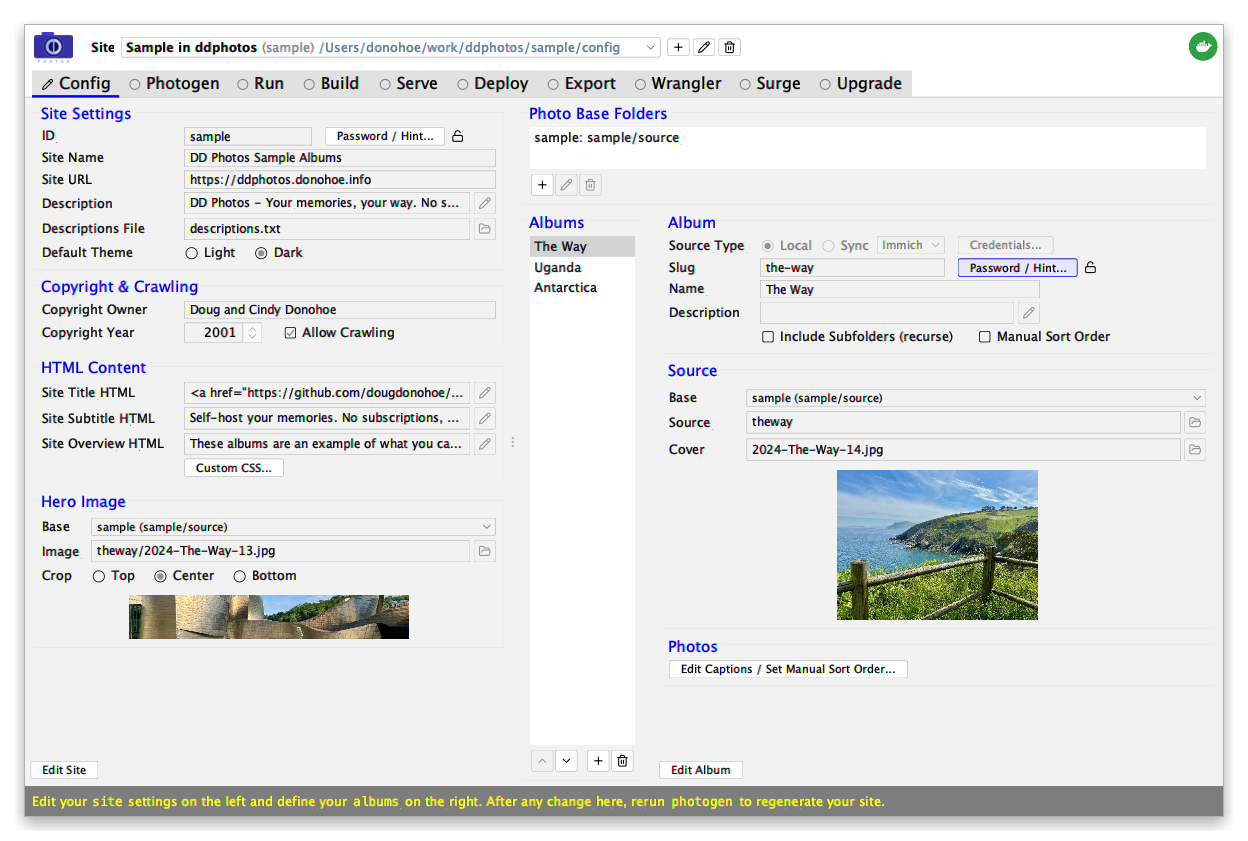
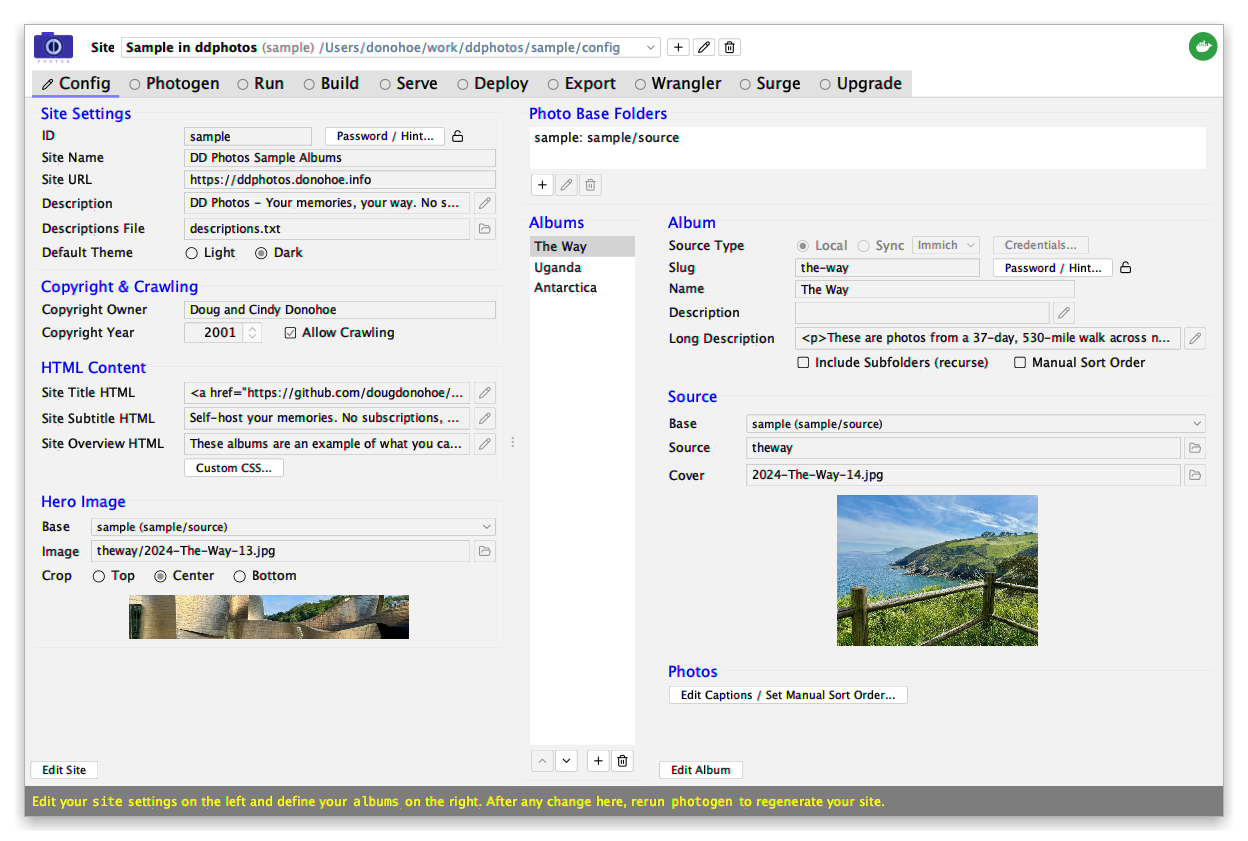
Album long description (#57)

Changed region(s): [[0.5312, 0.2782, 0.9688, 0.8347], [0.0312, 0.0927, 0.0938, 0.1237]]

diff --git a/code/photos/src/main/resources/config/ddphotos/help/whatsnew.html b/code/photos/src/main/resources/config/ddphotos/help/whatsnew.html
@@ -6,6 +6,16 @@
 
 <h2>What's New?</h2>
 
+<!-- 1.0.17 -->
+<div style="background-color: #2D1D9F; text-align: center; padding: 4px;">
+    <strong><span style="color: #FFFF00; font-size: 1.1em;">Version 1.0.17 - TBD</span></strong>
+</div>
+<ul>
+    <li>New <b>Long Description</b> field in an album's settings, after <b>Description</b>.  It
+        holds HTML shown on the album page between the album's title and its photos, which is a
+        good place for the story behind the album (requires DD Photos v1.33 or higher).</li>
+</ul>
+
 <!-- 1.0.16 -->
 <div style="background-color: #2D1D9F; text-align: center; padding: 4px;">
     <strong><span style="color: #FFFF00; font-size: 1.1em;">Version 1.0.16 - October 9th, 2026</span></strong>

diff --git a/code/photos/src/main/java/com/donohoedigital/ddphotos/AlbumDetailPanel.java b/code/photos/src/main/java/com/donohoedigital/ddphotos/AlbumDetailPanel.java
@@ -81,6 +81,7 @@ public class AlbumDetailPanel extends EditableDetailPanel {
     private OptionTextArea description_;
     private DDCheckBox descOverride_;
     private DDLabel descHint_;
+    private OptionTextArea longDescription_;
     private DDLabelBorder sourceSection_;
     private JPanel localRows_;
     private JPanel syncRows_;
@@ -220,6 +221,11 @@ public class AlbumDetailPanel extends EditableDetailPanel {
         descHint_ = hintIcon();
         descOverride_.addActionListener(_ -> overrideToggled(descOverride_));
         panel.add(overrideRow(description_, descOverride_, descHint_));
+
+        // Never synced, so no override box: it is always the albums.yaml value.
+        longDescription_ = editable(new OptionTextArea(null, "albumlongdescription", STYLE, null, dummy_,
+                PhotosConstants.MAX_LONG_DESCRIPTION_LENGTH, null, 6, 350));
+        panel.add(longDescription_);
 
         recurse_ = editable(new OptionBoolean(null, "albumrecurse", STYLE, dummy_));
         manualSort_ = editable(new OptionBoolean(null, "albummanualsort", STYLE, dummy_));
@@ -476,6 +482,7 @@ public class AlbumDetailPanel extends EditableDetailPanel {
         descOverride_.setSelected(!isBlank(entry.getDescription()));
         name_.getTextField().setText(sync != null && !nameOverride_.isSelected() ? nvl(metaName_, "") : nvl(entry.getName(), ""));
         description_.setText(sync != null && !descOverride_.isSelected() ? nvl(metaDesc_, "") : nvl(entry.getDescription(), ""));
+        longDescription_.setText(nvl(entry.getLongDescriptionHtml(), ""));
         localSource_.selectBase(entry.getBase());
         source_.setText(nvl(entry.getSource(), ""));
         cover_.setText(nvl(entry.getCover(), ""));
@@ -495,6 +502,7 @@ public class AlbumDetailPanel extends EditableDetailPanel {
         descOverride_.setSelected(false);
         name_.getTextField().setText("");
         description_.setText("");
+        longDescription_.setText("");
         localSource_.selectBase(null);
         source_.setText("");
         cover_.setText("");
@@ -718,6 +726,7 @@ public class AlbumDetailPanel extends EditableDetailPanel {
         descOverride_.setEnabled(editing);
         name_.setDisplayOnly(!editing || (sync && !nameOverride_.isSelected()));
         description_.setDisplayOnly(!editing || (sync && !descOverride_.isSelected()));
+        longDescription_.setDisplayOnly(!editing);
         updateHint(nameHint_, nameOverride_, metaName_);
         updateHint(descHint_, descOverride_, metaDesc_);
 
@@ -783,6 +792,7 @@ public class AlbumDetailPanel extends EditableDetailPanel {
         currentEntry_.setSlug(updated.getSlug());
         currentEntry_.setName(updated.getName());
         currentEntry_.setDescription(updated.getDescription());
+        currentEntry_.setLongDescriptionHtml(updated.getLongDescriptionHtml());
         currentEntry_.setBase(updated.getBase());
         currentEntry_.setSource(updated.getSource());
         currentEntry_.setSync(updated.getSync());
@@ -840,6 +850,7 @@ public class AlbumDetailPanel extends EditableDetailPanel {
         e.setCover(emptyToNull(cover_.getText().trim()));
         e.setRecurse(recurse_.getCheckBox().isSelected());
         e.setManualSortOrder(manualSort_.getCheckBox().isSelected());
+        e.setLongDescriptionHtml(emptyToNull(longDescription_.getText().trim()));
         if (isSyncMode()) {
             // Start from the saved block so a mock: sub-block (not editable here) is carried over.
             SyncEntry saved = currentEntry_ != null ? currentEntry_.getSync() : null;

diff --git a/code/photos/src/test/java/com/donohoedigital/ddphotos/config/AlbumsFileTest.java b/code/photos/src/test/java/com/donohoedigital/ddphotos/config/AlbumsFileTest.java
@@ -453,6 +453,61 @@ public class AlbumsFileTest {
     }
 
     @Test
+    public void load_longDescription() throws Exception {
+        Path f = writeYaml("""
+                albums:
+                  - slug: way
+                    name: The Way
+                    source: /tmp/p
+                    long_description_html: |
+                      <p>One.</p>
+                      <p>Two.</p>
+                """);
+        AlbumEntry a = AlbumsFile.load(f).getAlbums().getFirst();
+        assertEquals("<p>One.</p>\n<p>Two.</p>\n", a.getLongDescriptionHtml());
+        assertNull(a.getDescription(), "long description is its own field");
+    }
+
+    @Test
+    public void roundTrip_addLongDescription_afterDescriptionAsLiteralBlock() throws Exception {
+        AlbumsFile af = loadFixture("testdata/albums.yaml");
+        AlbumEntry a = af.getAlbums().getFirst();
+        assertNotNull(a.getDescription(), "precondition: first fixture album has a description");
+        a.setLongDescriptionHtml("<p>One.</p>\n<p>Two.</p>");
+
+        Path out = Files.createFile(tmp.resolve("out.yaml"));
+        af.save(out);
+
+        String yaml = Files.readString(out, StandardCharsets.UTF_8);
+        int desc = yaml.indexOf("description: Photos from the 2004 expedition.");
+        int longDesc = yaml.indexOf("long_description_html: |-");
+        int base = yaml.indexOf("source: 2004-Antarctica");
+        assertTrue(desc >= 0 && longDesc > desc && base > longDesc,
+                "long_description_html should be a literal block right after description:\n" + yaml);
+
+        AlbumEntry reloaded = AlbumsFile.load(out).getAlbums().getFirst();
+        assertEquals("<p>One.</p>\n<p>Two.</p>", reloaded.getLongDescriptionHtml());
+    }
+
+    @Test
+    public void roundTrip_clearLongDescription() throws Exception {
+        Path f = writeYaml("""
+                albums:
+                  - slug: way
+                    name: The Way
+                    source: /tmp/p
+                    long_description_html: <p>One.</p>
+                """);
+        AlbumsFile af = AlbumsFile.load(f);
+        af.getAlbums().getFirst().setLongDescriptionHtml(null);
+        Path out = Files.createFile(tmp.resolve("out.yaml"));
+        af.save(out);
+
+        assertFalse(Files.readString(out, StandardCharsets.UTF_8).contains("long_description_html"));
+        assertNull(AlbumsFile.load(out).getAlbums().getFirst().getLongDescriptionHtml());
+    }
+
+    @Test
     public void saveNewFile() throws Exception {
         AlbumsFile af = new AlbumsFile();
         af.getSettings().setId("mysite");
@@ -631,6 +686,7 @@ public class AlbumsFileTest {
                 cmp(errs, label, pfx + ".slug",        ae.getSlug(),        be.getSlug());
                 cmp(errs, label, pfx + ".name",        ae.getName(),        be.getName());
                 cmp(errs, label, pfx + ".description", ae.getDescription(), be.getDescription());
+                cmp(errs, label, pfx + ".longDescriptionHtml", ae.getLongDescriptionHtml(), be.getLongDescriptionHtml());
                 cmp(errs, label, pfx + ".base",        ae.getBase(),        be.getBase());
                 cmp(errs, label, pfx + ".source",      ae.getSource(),      be.getSource());
                 cmp(errs, label, pfx + ".cover",       ae.getCover(),       be.getCover());

diff --git a/code/photos/src/main/java/com/donohoedigital/ddphotos/config/AlbumsFile.java b/code/photos/src/main/java/com/donohoedigital/ddphotos/config/AlbumsFile.java
@@ -9,6 +9,7 @@ import org.snakeyaml.engine.v2.api.lowlevel.Compose;
 import org.snakeyaml.engine.v2.comments.CommentLine;
 import org.snakeyaml.engine.v2.comments.CommentType;
 import org.snakeyaml.engine.v2.common.FlowStyle;
+import org.snakeyaml.engine.v2.common.ScalarStyle;
 import org.snakeyaml.engine.v2.exceptions.YamlEngineException;
 import org.snakeyaml.engine.v2.nodes.*;
 
@@ -680,6 +681,7 @@ public class AlbumsFile extends ConfigFile {
         a.setSlug(getString(n, "slug"));
         a.setName(getString(n, "name"));
         a.setDescription(getString(n, "description"));
+        a.setLongDescriptionHtml(getString(n, "long_description_html"));
         a.setBase(getString(n, "base"));
         a.setSource(getString(n, "source"));
         a.setCover(getString(n, "cover"));
@@ -812,12 +814,33 @@ public class AlbumsFile extends ConfigFile {
         setOptionalString(n, "slug", a.getSlug());
         setOptionalString(n, "name", a.getName());
         setOptionalString(n, "description", a.getDescription());
+        syncLongDescription(n, a.getLongDescriptionHtml());
         syncSyncEntry(n, a.getSync());
         setOptionalString(n, "base", a.getBase());
         setOptionalString(n, "source", a.getSource());
         setOptionalString(n, "cover", a.getCover());
         setBoolean(n, "manual_sort_order", a.isManualSortOrder());
         setBoolean(n, "recurse", a.isRecurse());
+    }
+
+    /**
+     * Writes an album's {@code long_description_html}.  An existing key is updated in place,
+     * keeping its scalar style; a new one goes straight after the album's name and description
+     * rather than at the end, and multi-line HTML is written as a literal block ({@code |}) so
+     * it stays readable instead of becoming one escaped double-quoted line.
+     */
+    private static void syncLongDescription(MappingNode album, String html) {
+        String key = "long_description_html";
+        if (isBlank(html) || findTupleIndex(album, key) >= 0) {
+            setOptionalString(album, key, html);
+            return;
+        }
+        int after = -1;
+        for (String k : List.of("slug", "name", "description")) {
+            after = Math.max(after, findTupleIndex(album, k));
+        }
+        ScalarStyle style = html.contains("\n") ? ScalarStyle.LITERAL : ScalarStyle.PLAIN;
+        album.getValue().add(after + 1, new NodeTuple(scalar(key), new ScalarNode(Tag.STR, html, style)));
     }
 
     /**

diff --git a/code/photos/src/main/java/com/donohoedigital/ddphotos/config/AlbumEntry.java b/code/photos/src/main/java/com/donohoedigital/ddphotos/config/AlbumEntry.java
@@ -6,6 +6,7 @@ public class AlbumEntry {
     private String slug;
     private String name;
     private String description;
+    private String longDescriptionHtml;
     private String base;
     private String source;
     private String cover;
@@ -19,6 +20,7 @@ public class AlbumEntry {
         this.slug          = other.slug;
         this.name          = other.name;
         this.description   = other.description;
+        this.longDescriptionHtml = other.longDescriptionHtml;
         this.base          = other.base;
         this.source        = other.source;
         this.cover         = other.cover;
@@ -35,6 +37,10 @@ public class AlbumEntry {
 
     public String getDescription() { return description; }
     public void setDescription(String description) { this.description = description; }
+
+    /** HTML shown on the album page between the header and the photos; inline only, never synced. */
+    public String getLongDescriptionHtml() { return longDescriptionHtml; }
+    public void setLongDescriptionHtml(String longDescriptionHtml) { this.longDescriptionHtml = longDescriptionHtml; }
 
     public String getBase() { return base; }
     public void setBase(String base) { this.base = base; }
@@ -67,6 +73,7 @@ public class AlbumEntry {
             && Objects.equals(slug,        e.slug)
             && Objects.equals(name,        e.name)
             && Objects.equals(description, e.description)
+            && Objects.equals(longDescriptionHtml, e.longDescriptionHtml)
             && Objects.equals(base,        e.base)
             && Objects.equals(source,      e.source)
             && Objects.equals(cover,       e.cover)
@@ -75,6 +82,6 @@ public class AlbumEntry {
 
     @Override
     public int hashCode() {
-        return Objects.hash(slug, name, description, base, source, cover, manualSortOrder, recurse, sync);
+        return Objects.hash(slug, name, description, longDescriptionHtml, base, source, cover, manualSortOrder, recurse, sync);
     }
 }

diff --git a/code/photos/src/main/java/com/donohoedigital/ddphotos/PhotosConstants.java b/code/photos/src/main/java/com/donohoedigital/ddphotos/PhotosConstants.java
@@ -78,6 +78,9 @@ public class PhotosConstants {
     /** A multi-line description. */
     public static final int MAX_DESCRIPTION_LENGTH = 500;
 
+    /** An album's long description, HTML shown on the album page. */
+    public static final int MAX_LONG_DESCRIPTION_LENGTH = 10000;
+
     // Gap between horizontal GUI items
     public static final int HORIZONTAL_GAP = 25;
 
@@ -87,6 +90,7 @@ public class PhotosConstants {
      * Release dates are recorded in help/whatsnew.html.
      */
     public static final Version VERSION = latest(
+            new Version(1, 0, 17),
             new Version(1, 0, 16),
             new Version(1, 0, 15),
             new Version(1, 0, 14),
